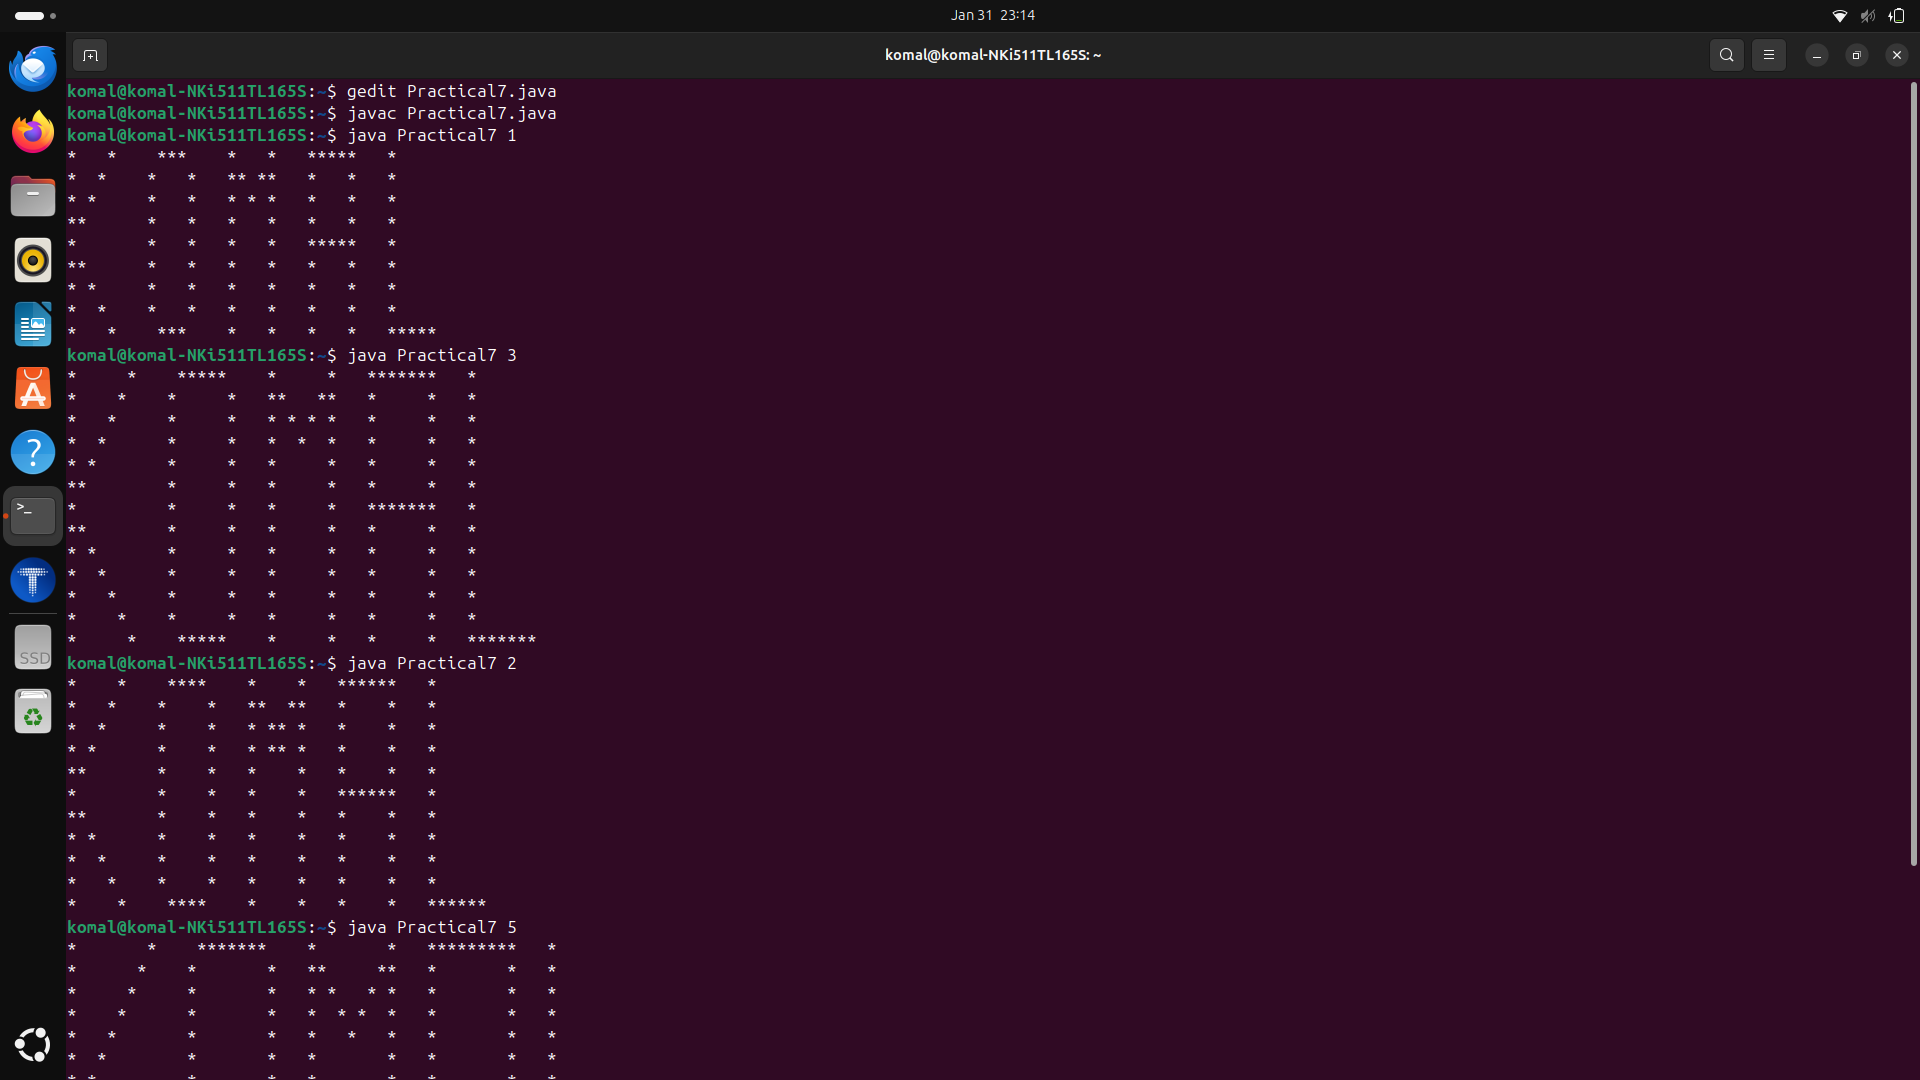
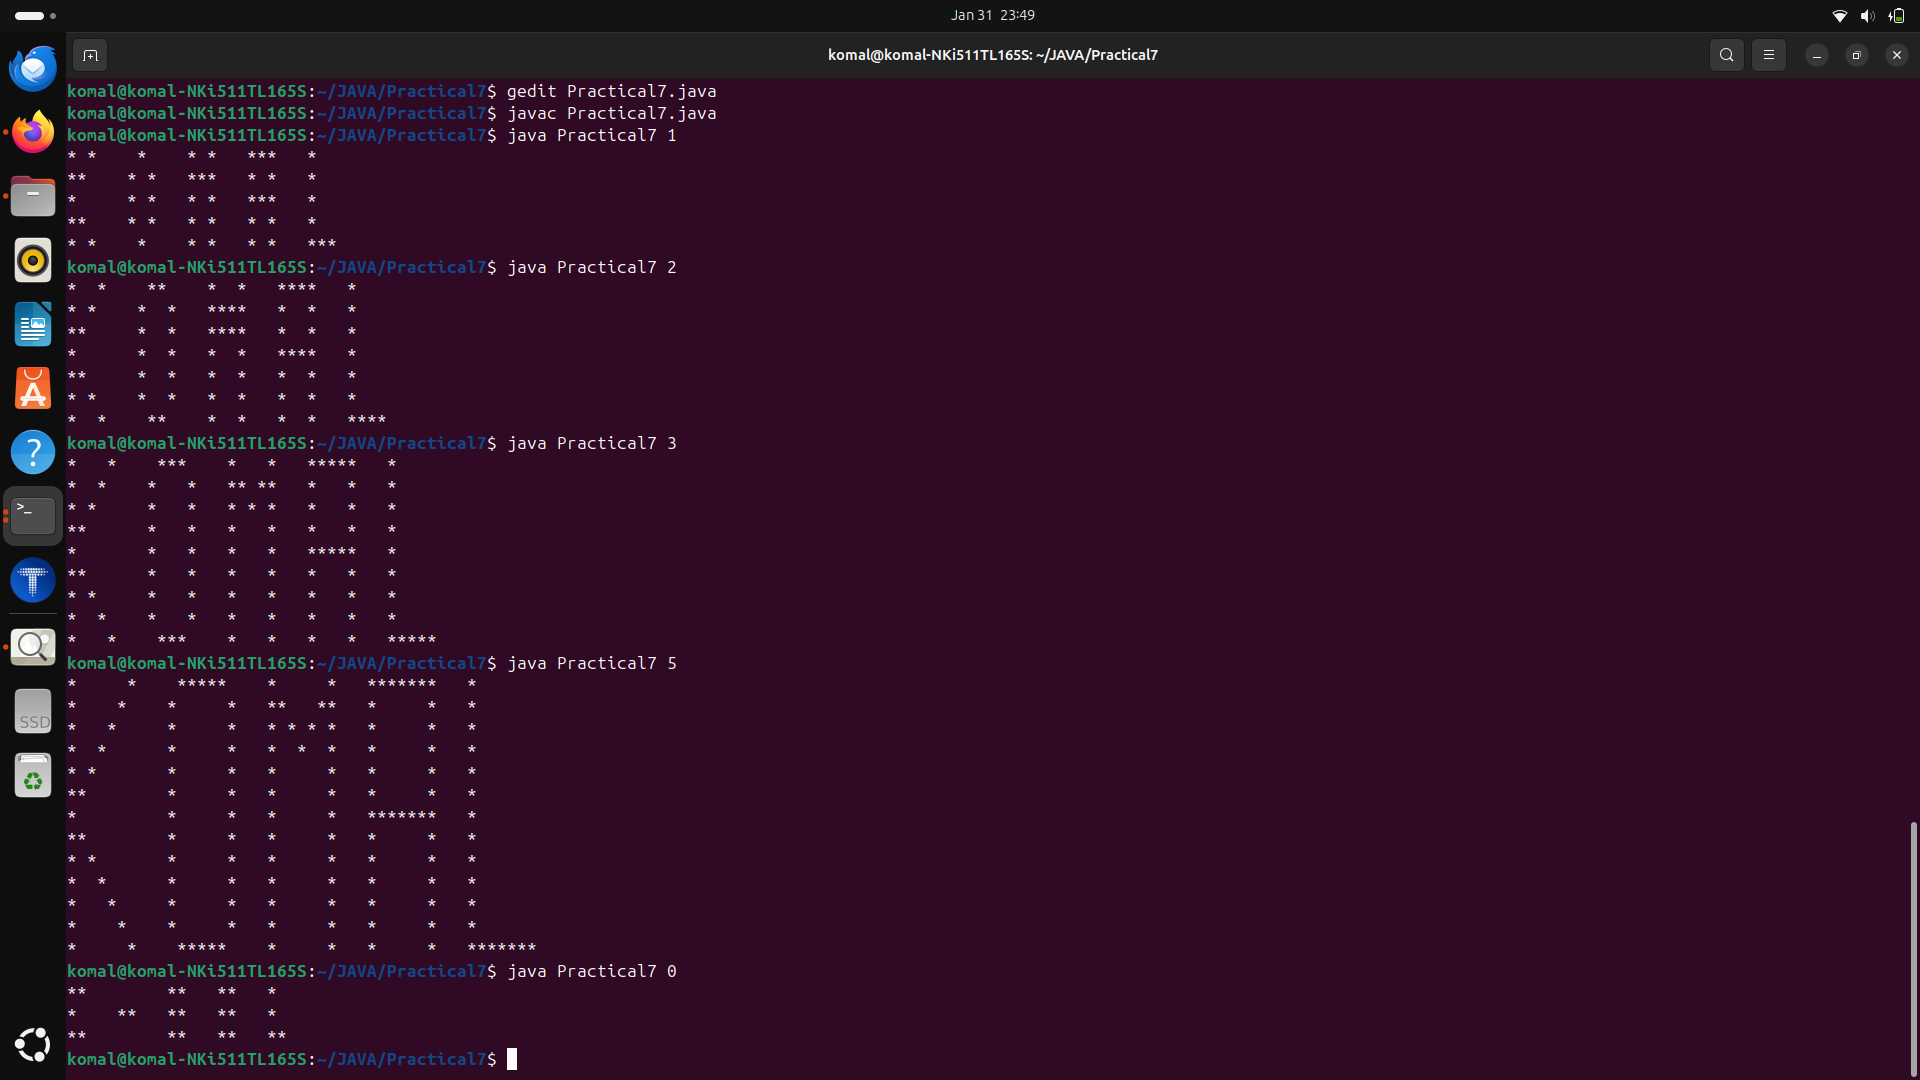
Practical 7 completed(myName Patern)

diff --git a/Practical7/Practical7.java b/Practical7/Practical7.java
@@ -216,14 +216,14 @@ class Practical7
 	{
 	Practical7 obj=new Practical7();
 		int size=Integer.parseInt(args[0])+2;
-		for(int ln=1;ln<=size+2;ln++)
+		for(int ln=1;ln<=size;ln++)
 		{
-			System.out.println(obj.getStringK1(ln,size+2)+"   "+obj.getString_o1(ln,size+2)+"   "+obj.getString_m1(ln,size+2)+"   "+obj.getString_A1(ln,size+2)+"   "+obj.getString_L1(ln,size+2));
+			System.out.println(obj.getStringK1(ln,size)+"   "+obj.getString_o1(ln,size)+"   "+obj.getString_m1(ln,size)+"   "+obj.getString_A1(ln,size)+"   "+obj.getString_L1(ln,size));
 
 		}
-		for(int ln=(size+2)-1;ln>0;ln--)
+		for(int ln=(size)-1;ln>0;ln--)
 		{
-			System.out.println(obj.getStringK2(ln,size+2)+"   "+obj.getString_o2(ln,size+2)+"   "+obj.getString_m2(ln,size+2)+"   "+obj.getString_A2(ln,size+2)+"   "+obj.getString_L2(ln,size+2));
+			System.out.println(obj.getStringK2(ln,size)+"   "+obj.getString_o2(ln,size)+"   "+obj.getString_m2(ln,size)+"   "+obj.getString_A2(ln,size)+"   "+obj.getString_L2(ln,size));
 				
 		}
 		
